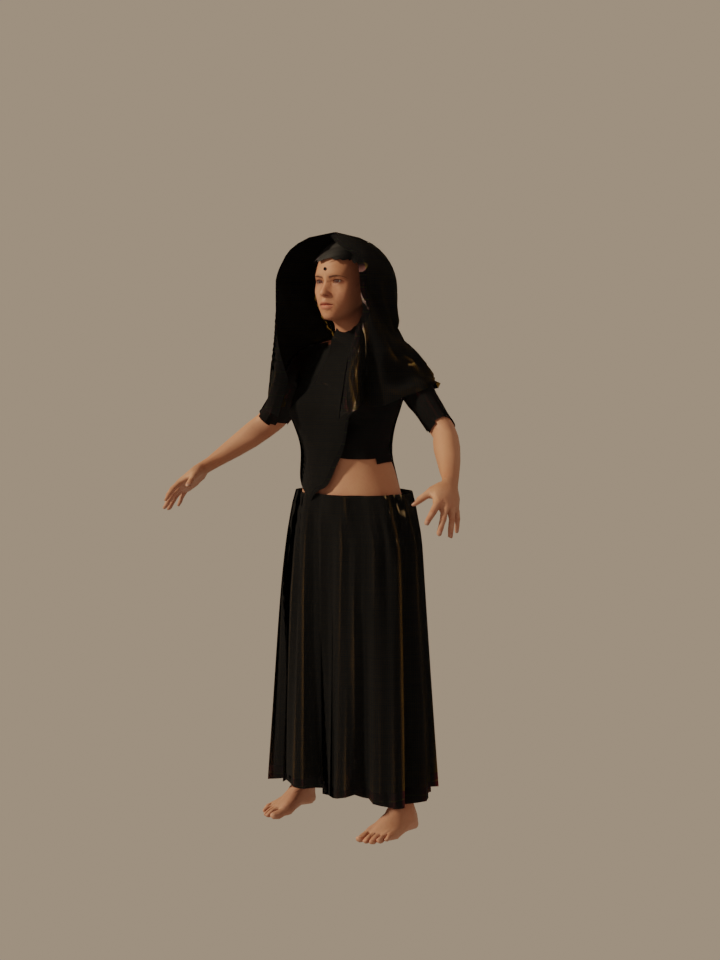
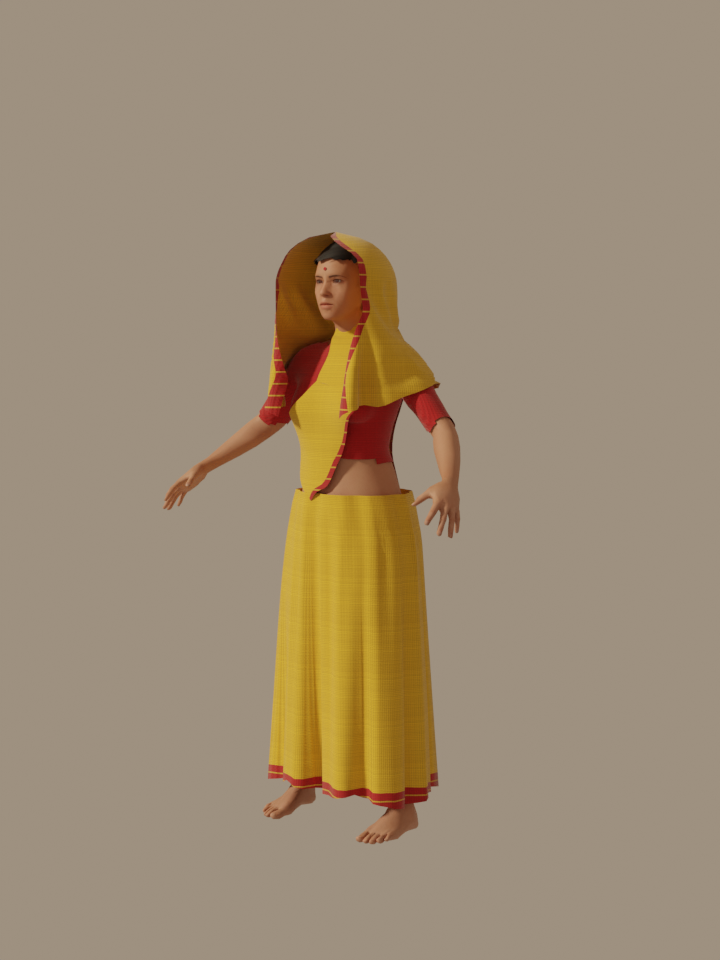
characters: finer weave; specs for vrati_b, vrati_c, elder, man_dhoti, young_man, child

Changed region(s): [[0.3667, 0.2188, 0.6417, 0.8438], [0.275, 0.4688, 0.3056, 0.5]]

diff --git a/characters/blender/build_character.py b/characters/blender/build_character.py
@@ -150,7 +150,7 @@ if hair:
 # ───────────────────────── garment helpers ─────────────────────────
 
 
-def weave_images(name, rgb, size=512, threads=28, stripe=None):
+def weave_images(name, rgb, size=512, threads=56, stripe=None):
     """Plain-weave cotton: base colour (with slub variation) + tangent-space normal map."""
     rng = np.random.default_rng(abs(hash(name)) % 2**32)
     yy, xx = np.mgrid[0:size, 0:size].astype(np.float32) / size
@@ -159,7 +159,7 @@ def weave_images(name, rgb, size=512, threads=28, stripe=None):
     weft = 0.5 + 0.5 * np.cos(py)
     over = (np.floor(xx * threads) + np.floor(yy * threads)) % 2
     height = np.where(over > 0, warp * 0.8 + weft * 0.2, weft * 0.8 + warp * 0.2)
-    slub = np.repeat(rng.normal(0, 0.06, size), size).reshape(size, size) + np.tile(rng.normal(0, 0.03, size), (size, 1))  # uneven yarn
+    slub = np.repeat(rng.normal(0, 0.045, size), size).reshape(size, size) + np.tile(rng.normal(0, 0.03, size), (size, 1))  # uneven yarn
     lum = 0.86 + 0.16 * height + slub + rng.normal(0, 0.015, (size, size))
     col = np.stack([np.clip(rgb[i] * lum, 0, 1) for i in range(3)], axis=-1)
     if stripe:  # woven border lines (e.g. gold thread in a red border)
@@ -215,7 +215,7 @@ def cloth_mat(name, rgb, rough=0.85, sheen=0.25, stripe=None):
     tn = nt.nodes.new("ShaderNodeTexImage")
     tn.image = nrm_img
     nm = nt.nodes.new("ShaderNodeNormalMap")
-    nm.inputs["Strength"].default_value = 0.6
+    nm.inputs["Strength"].default_value = 0.3
     nt.links.new(tn.outputs["Color"], nm.inputs["Color"])
     nt.links.new(nm.outputs["Normal"], b.inputs["Normal"])
     b.inputs["Roughness"].default_value = rough
